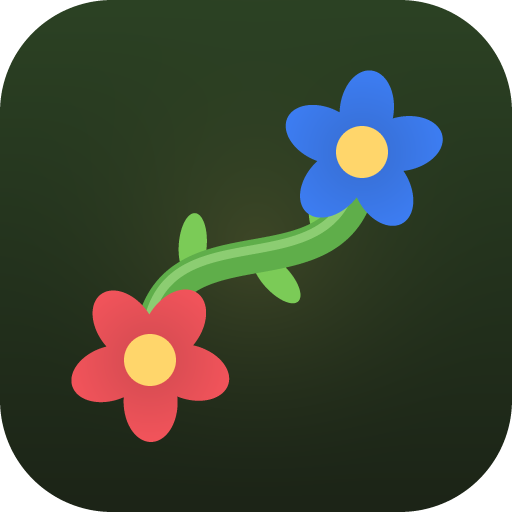
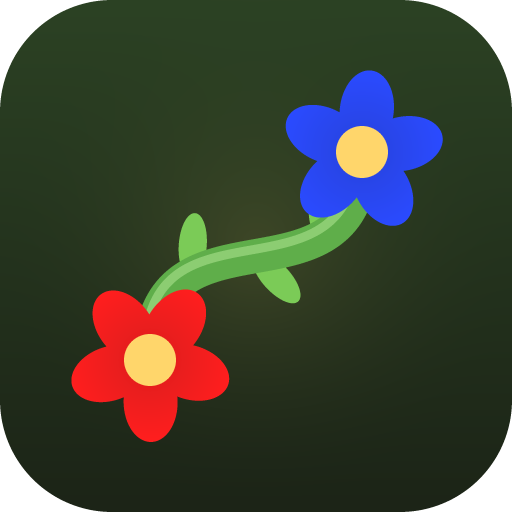
Switch to bright classic puzzle colors for readability
- Palette is now the familiar saturated set: red, green, blue, yellow,
  orange, cyan, magenta, maroon, purple, white, gray, lime
- Vines drawn in the pure color (no green stem tint)
- Darker soil, fainter grass under vines, stronger color tint on
  filled cells
- Light outline ring on seeds so dark colors stay visible
- Icons, tutorial art and docs updated; service worker cache bumped

Changed region(s): [[0.5625, 0.125, 0.875, 0.4375], [0.125, 0.5625, 0.4688, 0.875]]

diff --git a/js/palette.js b/js/palette.js
@@ -1,23 +1,23 @@
-// Vine Link — flower palette. Ordered so small levels get the most distinct hues first.
+// Vine Link — flower palette: the classic bright, fully saturated puzzle colors, ordered so small
+// levels get the most distinct hues first. Vines are drawn in the pure color for maximum contrast.
 // Colorblind mode never relies on hue alone: every flower also gets a symbol on its seed and a
 // unique petal count + petal shape when it blooms.
 
 export const PALETTE = [
-  { name: 'Poppy', hex: '#F2545B', symbol: 'dot', petals: 5, shape: 'round' },
-  { name: 'Cornflower', hex: '#3D7DF2', symbol: 'triangle', petals: 3, shape: 'pointed' },
-  { name: 'Sunflower', hex: '#FFD43B', symbol: 'star', petals: 8, shape: 'thin' },
-  { name: 'Clover', hex: '#34C76F', symbol: 'plus', petals: 4, shape: 'heart' },
-  { name: 'Marigold', hex: '#FF8C2E', symbol: 'diamond', petals: 6, shape: 'round' },
-  { name: 'Morning Glory', hex: '#3FD3E6', symbol: 'drop', petals: 5, shape: 'pointed' },
-  { name: 'Orchid', hex: '#B06CF5', symbol: 'square', petals: 4, shape: 'round' },
-  { name: 'Peony', hex: '#FF8FC7', symbol: 'heart', petals: 6, shape: 'heart' },
-  { name: 'Daisy', hex: '#F7F3E8', symbol: 'ring', petals: 12, shape: 'thin' },
-  { name: 'Ruby', hex: '#C2185B', symbol: 'hexagon', petals: 6, shape: 'pointed' },
-  { name: 'Lime', hex: '#C4F04A', symbol: 'moon', petals: 7, shape: 'round' },
-  { name: 'Wheat', hex: '#D9B38C', symbol: 'bars', petals: 4, shape: 'pointed' },
+  { name: 'Red', hex: '#FF1F1F', symbol: 'dot', petals: 5, shape: 'round' },
+  { name: 'Green', hex: '#14B814', symbol: 'triangle', petals: 3, shape: 'pointed' },
+  { name: 'Blue', hex: '#2B4BFF', symbol: 'star', petals: 8, shape: 'thin' },
+  { name: 'Yellow', hex: '#F5E400', symbol: 'plus', petals: 4, shape: 'heart' },
+  { name: 'Orange', hex: '#FF8A00', symbol: 'diamond', petals: 6, shape: 'round' },
+  { name: 'Cyan', hex: '#00E5F0', symbol: 'drop', petals: 5, shape: 'pointed' },
+  { name: 'Magenta', hex: '#F21CC4', symbol: 'square', petals: 4, shape: 'round' },
+  { name: 'Maroon', hex: '#B8392F', symbol: 'heart', petals: 6, shape: 'heart' },
+  { name: 'Purple', hex: '#8E2FD0', symbol: 'ring', petals: 12, shape: 'thin' },
+  { name: 'White', hex: '#FFFFFF', symbol: 'hexagon', petals: 6, shape: 'pointed' },
+  { name: 'Gray', hex: '#A8A8A8', symbol: 'moon', petals: 7, shape: 'round' },
+  { name: 'Lime', hex: '#6BFF2E', symbol: 'bars', petals: 4, shape: 'pointed' },
 ];
 
-export const STEM = '#6FBF4F';
 export const LEAF = '#7BCB57';
 
 export function hexToRgb(hex) {
@@ -36,10 +36,9 @@ export function mix(a, b, t) {
 /** Pre-computed colors for drawing. */
 export const COLORS = PALETTE.map((p) => {
   const flower = hexToRgb(p.hex);
-  const stem = hexToRgb(STEM);
   return {
     flower,
-    vine: mix(flower, stem, 0.22), // green stem tinted with the flower's color
+    vine: flower, // pure color: easy to tell apart at a glance
     leaf: mix(hexToRgb(LEAF), flower, 0.28),
     light: mix(flower, [255, 255, 255], 0.45),
     dark: mix(flower, [20, 14, 8], 0.45),

diff --git a/js/app.js b/js/app.js
@@ -534,25 +534,25 @@ function tutorialArt(kind) {
   if (kind === 'rocks') {
     return wrap(5, 3, grid(5, 3) +
       `<ellipse cx="100" cy="60" rx="16" ry="14" fill="#8d897d"/><ellipse cx="94" cy="54" rx="5" ry="3" fill="rgba(255,255,255,.3)"/>` +
-      vine([[0, 1], [0, 0], [1, 0], [2, 0], [3, 0], [4, 0], [4, 1]], '#3D7DF2') + seed(0, 1, '#3D7DF2') + seed(4, 1, '#3D7DF2') +
-      vine([[0, 2], [1, 2], [2, 2], [3, 2], [4, 2]], '#F2545B') + seed(0, 2, '#F2545B') + seed(4, 2, '#F2545B'));
+      vine([[0, 1], [0, 0], [1, 0], [2, 0], [3, 0], [4, 0], [4, 1]], '#2B4BFF') + seed(0, 1, '#2B4BFF') + seed(4, 1, '#2B4BFF') +
+      vine([[0, 2], [1, 2], [2, 2], [3, 2], [4, 2]], '#FF1F1F') + seed(0, 2, '#FF1F1F') + seed(4, 2, '#FF1F1F'));
   }
   if (kind === 'bridges') {
     return wrap(5, 3, grid(5, 3) +
       `<rect x="82" y="44" width="36" height="32" rx="4" fill="#a0744a"/><rect x="84" y="42" width="32" height="36" rx="4" fill="#7a5634" opacity=".7"/>` +
-      vine([[2, 0], [2, 1], [2, 2]], '#FFD43B') + vine([[0, 1], [1, 1], [2, 1], [3, 1], [4, 1]], '#3FD3E6') +
-      seed(2, 0, '#FFD43B') + seed(2, 2, '#FFD43B') + seed(0, 1, '#3FD3E6') + seed(4, 1, '#3FD3E6'));
+      vine([[2, 0], [2, 1], [2, 2]], '#F5E400') + vine([[0, 1], [1, 1], [2, 1], [3, 1], [4, 1]], '#00E5F0') +
+      seed(2, 0, '#F5E400') + seed(2, 2, '#F5E400') + seed(0, 1, '#00E5F0') + seed(4, 1, '#00E5F0'));
   }
   if (kind === 'hints') {
     return wrap(5, 3, `<g transform="translate(70 18) scale(3.4)" color="#7bcb57"><use href="#i-can"/></g>` +
-      `<g fill="#3FD3E6" opacity=".8"><circle cx="160" cy="42" r="4"/><circle cx="170" cy="58" r="3.5"/><circle cx="158" cy="72" r="3"/></g>`);
+      `<g fill="#00E5F0" opacity=".8"><circle cx="160" cy="42" r="4"/><circle cx="170" cy="58" r="3.5"/><circle cx="158" cy="72" r="3"/></g>`);
   }
   if (kind === 'daily') {
     return wrap(5, 3, `<g transform="translate(70 10) scale(4)" color="#ffd66b"><use href="#i-sun"/></g>`);
   }
   return wrap(5, 3, grid(5, 3) +
-    vine([[0, 0], [1, 0], [2, 0], [3, 0], [4, 0]], '#F2545B') + seed(0, 0, '#F2545B') + seed(4, 0, '#F2545B') +
-    vine([[0, 1], [0, 2], [1, 2], [2, 2]], '#3D7DF2') + seed(0, 1, '#3D7DF2') + seed(4, 2, '#3D7DF2') +
+    vine([[0, 0], [1, 0], [2, 0], [3, 0], [4, 0]], '#FF1F1F') + seed(0, 0, '#FF1F1F') + seed(4, 0, '#FF1F1F') +
+    vine([[0, 1], [0, 2], [1, 2], [2, 2]], '#2B4BFF') + seed(0, 1, '#2B4BFF') + seed(4, 2, '#2B4BFF') +
     `<circle cx="100" cy="100" r="15" fill="none" stroke="#fff" stroke-width="3" opacity=".7"/>`);
 }
 

diff --git a/index.html b/index.html
@@ -43,8 +43,8 @@
           <path d="M20 96 C 60 96, 60 40, 110 40 S 160 96, 200 96" fill="none" stroke="#5fae4a" stroke-width="9" stroke-linecap="round"/>
           <path d="M20 96 C 60 96, 60 40, 110 40 S 160 96, 200 96" fill="none" stroke="#b9ec9a" stroke-width="2.4" stroke-linecap="round" opacity=".55" transform="translate(-1.5 -2)"/>
           <g fill="#7bcb57"><ellipse cx="58" cy="70" rx="11" ry="5" transform="rotate(-50 58 70)"/><ellipse cx="88" cy="40" rx="11" ry="5" transform="rotate(-20 88 40)"/><ellipse cx="134" cy="48" rx="11" ry="5" transform="rotate(30 134 48)"/><ellipse cx="166" cy="78" rx="11" ry="5" transform="rotate(55 166 78)"/></g>
-          <g transform="translate(20 96)"><g fill="#F2545B"><ellipse cx="0" cy="-11" rx="7" ry="10"/><ellipse cx="0" cy="-11" rx="7" ry="10" transform="rotate(72)"/><ellipse cx="0" cy="-11" rx="7" ry="10" transform="rotate(144)"/><ellipse cx="0" cy="-11" rx="7" ry="10" transform="rotate(216)"/><ellipse cx="0" cy="-11" rx="7" ry="10" transform="rotate(288)"/></g><circle r="7" fill="#ffd66b"/></g>
-          <g transform="translate(200 96)"><g fill="#F2545B"><ellipse cx="0" cy="-11" rx="7" ry="10"/><ellipse cx="0" cy="-11" rx="7" ry="10" transform="rotate(72)"/><ellipse cx="0" cy="-11" rx="7" ry="10" transform="rotate(144)"/><ellipse cx="0" cy="-11" rx="7" ry="10" transform="rotate(216)"/><ellipse cx="0" cy="-11" rx="7" ry="10" transform="rotate(288)"/></g><circle r="7" fill="#ffd66b"/></g>
+          <g transform="translate(20 96)"><g fill="#FF1F1F"><ellipse cx="0" cy="-11" rx="7" ry="10"/><ellipse cx="0" cy="-11" rx="7" ry="10" transform="rotate(72)"/><ellipse cx="0" cy="-11" rx="7" ry="10" transform="rotate(144)"/><ellipse cx="0" cy="-11" rx="7" ry="10" transform="rotate(216)"/><ellipse cx="0" cy="-11" rx="7" ry="10" transform="rotate(288)"/></g><circle r="7" fill="#ffd66b"/></g>
+          <g transform="translate(200 96)"><g fill="#FF1F1F"><ellipse cx="0" cy="-11" rx="7" ry="10"/><ellipse cx="0" cy="-11" rx="7" ry="10" transform="rotate(72)"/><ellipse cx="0" cy="-11" rx="7" ry="10" transform="rotate(144)"/><ellipse cx="0" cy="-11" rx="7" ry="10" transform="rotate(216)"/><ellipse cx="0" cy="-11" rx="7" ry="10" transform="rotate(288)"/></g><circle r="7" fill="#ffd66b"/></g>
         </svg>
         <h1 class="title">Vine Link</h1>
         <p class="tagline">Grow vines. Link the seeds. Let the garden bloom.</p>

diff --git a/js/render.js b/js/render.js
@@ -138,8 +138,8 @@ export class BoardRenderer {
 
     // board bed
     const bedGrad = ctx.createLinearGradient(0, 0, 0, S);
-    bedGrad.addColorStop(0, '#3a2b20');
-    bedGrad.addColorStop(1, '#2a1f17');
+    bedGrad.addColorStop(0, '#221a14');
+    bedGrad.addColorStop(1, '#17110d');
     ctx.fillStyle = bedGrad;
     roundRect(ctx, 0, 0, S, S, S * 0.04);
     ctx.fill();
@@ -152,7 +152,8 @@ export class BoardRenderer {
       const h = hash(cell * 7 + level.size);
       const kind = level.kind[cell];
       // soil tile
-      const base = kind === ROCK ? [64, 50, 40] : mix([96, 72, 52], [86, 63, 45], h);
+      // dark soil so the bright vine colors stand out
+      const base = kind === ROCK ? [34, 27, 22] : mix([60, 46, 36], [53, 40, 31], h);
       const tg = ctx.createLinearGradient(x, y, x, y + cs);
       tg.addColorStop(0, rgba(mix(base, [255, 230, 200], 0.06)));
       tg.addColorStop(1, rgba(mix(base, [0, 0, 0], 0.1)));
@@ -435,11 +436,11 @@ export class BoardRenderer {
       const x = g.x + (cell % this.n) * cs, y = g.y + Math.floor(cell / this.n) * cs;
       const a = this.cover[cell];
       if (a > 0.01 && level.kind[cell] !== BRIDGE) {
-        ctx.globalAlpha = a;
+        ctx.globalAlpha = a * 0.4; // faint grass, so it never competes with green vines
         ctx.drawImage(this.grass[cell % 3], x, y, cs, cs);
         const col = this.coverColor[cell];
         if (col >= 0) {
-          ctx.globalAlpha = a * 0.2;
+          ctx.globalAlpha = a * 0.28;
           ctx.fillStyle = rgba(COLORS[col].flower);
           roundRect(ctx, x + cs * 0.045, y + cs * 0.045, cs * 0.91, cs * 0.91, cs * 0.2);
           ctx.fill();
@@ -716,6 +717,12 @@ export class BoardRenderer {
     ctx.fill();
     ctx.strokeStyle = rgba(col.dark, 0.8);
     ctx.lineWidth = Math.max(1, cs * 0.03);
+    ctx.stroke();
+    // light outer ring: keeps dark seeds (maroon, purple, blue) visible on dark soil
+    ctx.strokeStyle = 'rgba(255,255,255,0.55)';
+    ctx.lineWidth = Math.max(1, cs * 0.025);
+    ctx.beginPath();
+    ctx.arc(x, y, r + Math.max(1, cs * 0.03), 0, TAU);
     ctx.stroke();
 
     if (this.colorblind) {

diff --git a/tools/make-icons.js b/tools/make-icons.js
@@ -15,7 +15,7 @@ mkdirSync(OUT, { recursive: true });
 // ---- design in a 512×512 space -------------------------------------------------------------
 const BG_TOP = [44, 66, 36], BG_BOTTOM = [28, 36, 23];
 const VINE = [95, 174, 74], VINE_HI = [185, 236, 154], LEAF = [123, 203, 87];
-const PETAL_A = [242, 84, 91], PETAL_B = [61, 125, 242], HEART = [255, 214, 107];
+const PETAL_A = [255, 31, 31], PETAL_B = [43, 75, 255], HEART = [255, 214, 107];
 
 // Vine: cubic Bézier from the lower-left flower to the upper-right flower.
 const P0 = [150, 360], P1 = [150, 190], P2 = [362, 322], P3 = [362, 152];

diff --git a/sw.js b/sw.js
@@ -1,7 +1,7 @@
 // Vine Link service worker: precache the whole game (including levels.json) so it plays offline.
 // Bump VERSION whenever any cached file changes; old caches are deleted on activate.
 
-const VERSION = 'vine-link-v1';
+const VERSION = 'vine-link-v2';
 const FILES = [
   './',
   'index.html',

diff --git a/docs/DESIGN.md b/docs/DESIGN.md
@@ -84,22 +84,21 @@ start, so vines cut mid-drag grow back if you pull away again.
 
 ## 4. Flower palette (12)
 
-Ordered so small levels use the most distinct hues first. Colorblind mode adds a unique symbol
-on every seed and a unique petal count/shape on every flower, so color is never the only cue.
+The classic bright puzzle colors: fully saturated, with vines drawn in the pure color on dark soil
+so every pair is easy to see. Colorblind mode adds a unique symbol on every seed and a unique
+petal count/shape on every flower, so color is never the only cue.
 
-| # | Name        | Hex       | Symbol  | Petals          |
-|---|-------------|-----------|---------|-----------------|
-| 0 | Poppy       | `#F2545B` | dot     | 5 round         |
-| 1 | Cornflower  | `#3D7DF2` | triangle| 3 pointed       |
-| 2 | Sunflower   | `#FFD43B` | star    | 8 thin          |
-| 3 | Clover      | `#34C76F` | plus    | 4 heart         |
-| 4 | Marigold    | `#FF8C2E` | diamond | 6 round         |
-| 5 | Morning-glory| `#3FD3E6`| drop    | 5 pointed       |
-| 6 | Orchid      | `#B06CF5` | square  | 4 round         |
-| 7 | Peony       | `#FF8FC7` | heart   | 6 heart         |
-| 8 | Daisy       | `#F7F3E8` | ring    | 12 thin         |
-| 9 | Ruby        | `#C2185B` | hexagon | 6 pointed       |
-| 10| Lime        | `#C4F04A` | moon    | 7 round         |
-| 11| Wheat       | `#D9B38C` | bars    | 4 pointed       |
-
-All names, art and copy are original to Vine Link.
+| # | Name    | Hex       | Symbol   | Petals      |
+|---|---------|-----------|----------|-------------|
+| 0 | Red     | `#FF1F1F` | dot      | 5 round     |
+| 1 | Green   | `#14B814` | triangle | 3 pointed   |
+| 2 | Blue    | `#2B4BFF` | star     | 8 thin      |
+| 3 | Yellow  | `#F5E400` | plus     | 4 heart     |
+| 4 | Orange  | `#FF8A00` | diamond  | 6 round     |
+| 5 | Cyan    | `#00E5F0` | drop     | 5 pointed   |
+| 6 | Magenta | `#F21CC4` | square   | 4 round     |
+| 7 | Maroon  | `#B8392F` | heart    | 6 heart     |
+| 8 | Purple  | `#8E2FD0` | ring     | 12 thin     |
+| 9 | White   | `#FFFFFF` | hexagon  | 6 pointed   |
+| 10| Gray    | `#A8A8A8` | moon     | 7 round     |
+| 11| Lime    | `#6BFF2E` | bars     | 4 pointed   |
